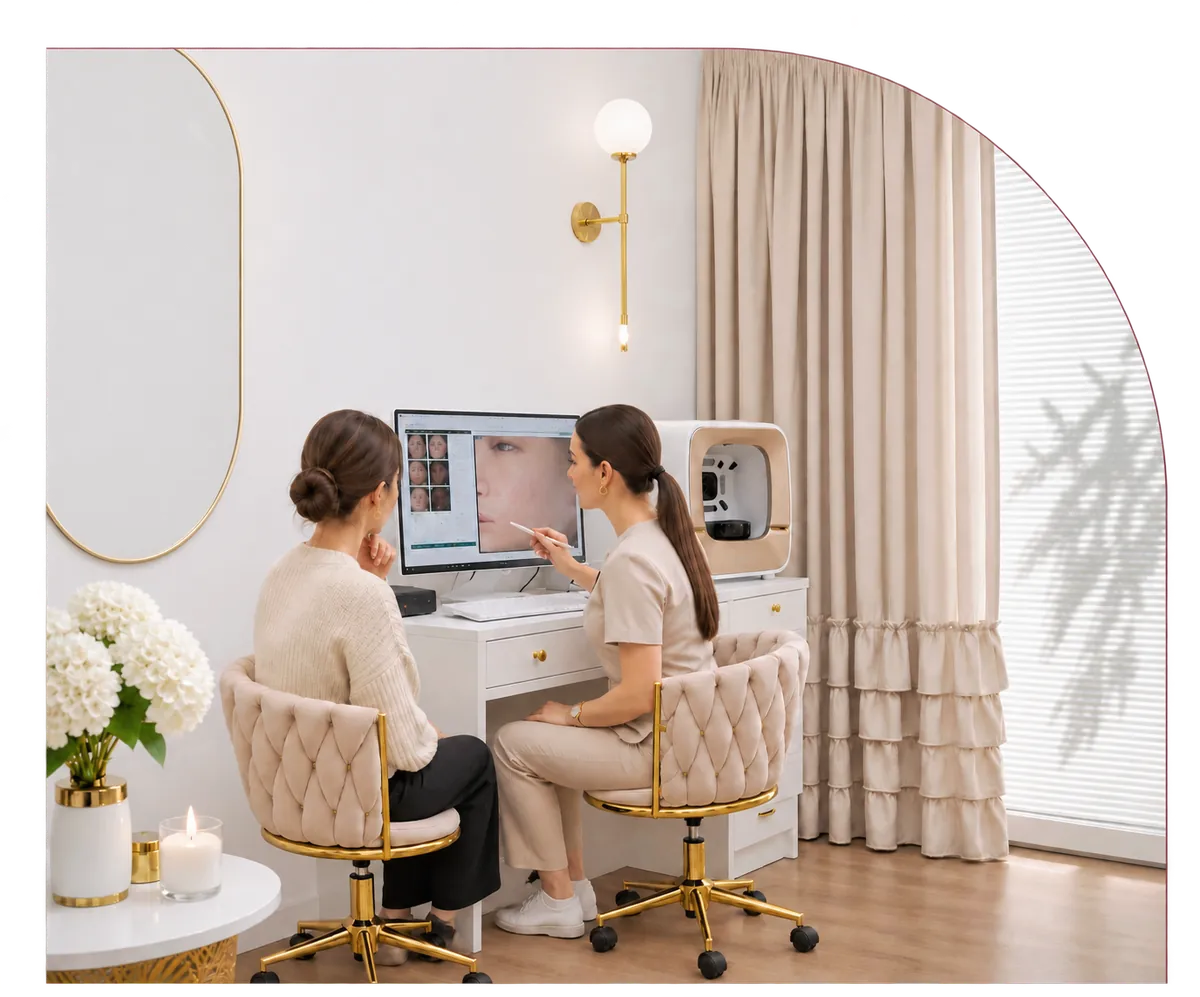
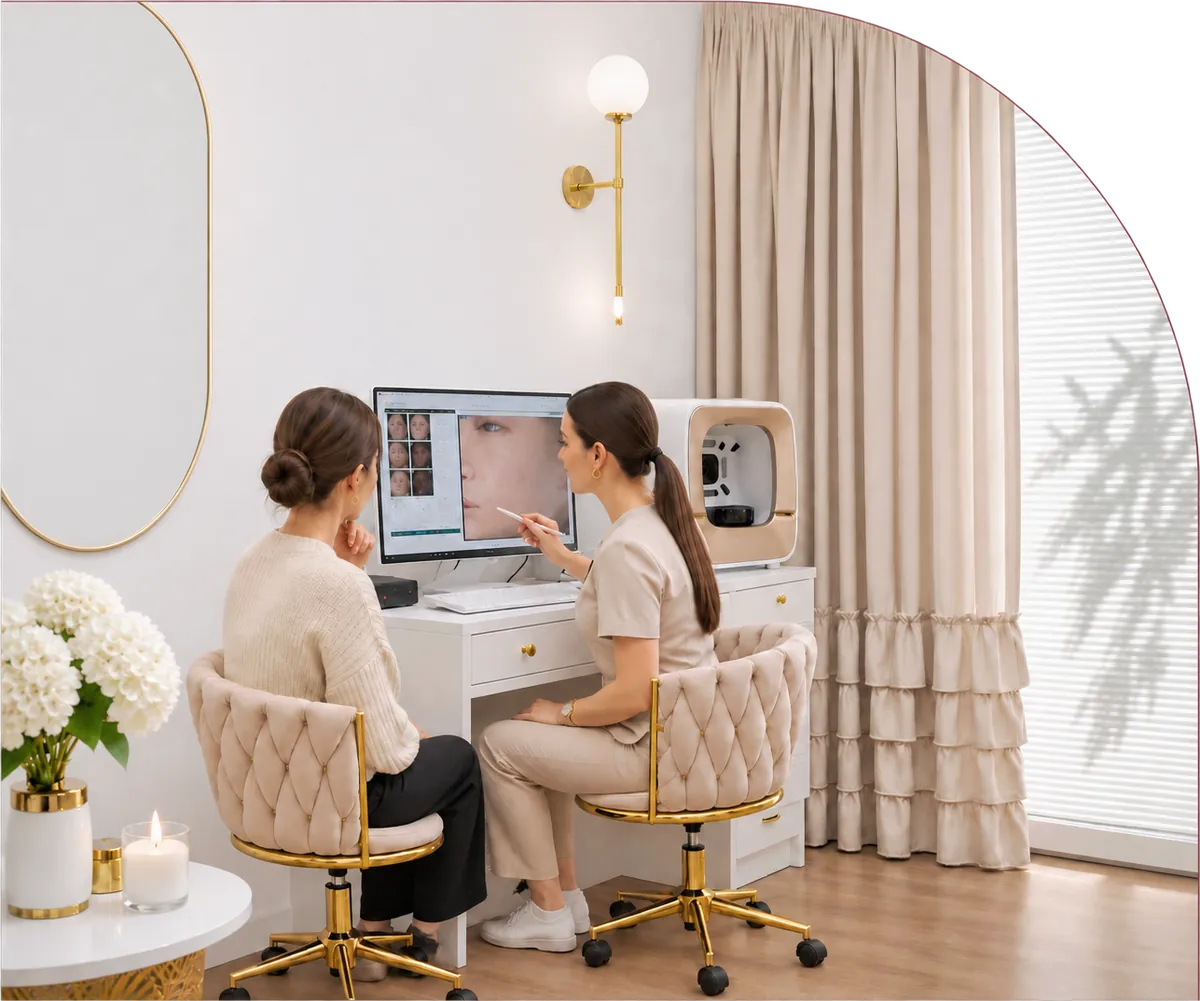
Hero ze zdjęciem w całości: dwie kolumny od 1100 px, poniżej zdjęcie pod tekstem (maks. 640 px, równo z tekstem); sizes dopasowane; grafika gabinetu przycięta do widocznej części

diff --git a/src/assets/css/komponenty.css b/src/assets/css/komponenty.css
@@ -251,9 +251,17 @@
 @media (min-width: 900px) {
   .hero { padding-top: var(--s-8); }
   .hero__siatka { grid-template-columns: 1.15fr 0.85fr; gap: var(--s-8); }
-  /* grafika pokazana w całości (strona główna, diagnostyka, podstrony zabiegów): szersza kolumna zdjęcia, żeby wypełniało
-     wysokość sekcji; przycinanie odpada, bo grafika ma łuk / tekst w obrazie (pomiar 1440 px: zdjęcie 483×401 → ok. 634×527) */
+}
+/* grafika pokazana w całości (strona główna, diagnostyka, podstrony zabiegów): przycinanie odpada, bo grafika ma łuk / tekst
+   w obrazie. Od 1100 px dwie kolumny z szeroką kolumną zdjęcia, żeby wypełniało wysokość sekcji (1440 px: zdjęcie 634×527);
+   poniżej 1100 px zdjęcie pod tekstem, maks. 640 px, wyrównane do tekstu (decyzja 2026-11-09) */
+.hero__siatka:has(.zdjecie--cale) .zdjecie--cale { justify-self: start; max-width: 640px; }
+@media (min-width: 900px) and (max-width: 1099.98px) {
+  .hero__siatka:has(.zdjecie--cale) { grid-template-columns: minmax(0, 1fr); gap: var(--s-7); }
+}
+@media (min-width: 1100px) {
   .hero__siatka:has(.zdjecie--cale) { grid-template-columns: minmax(0, 0.9fr) minmax(0, 1.1fr); gap: var(--s-7); }
+  .hero__siatka:has(.zdjecie--cale) .zdjecie--cale { justify-self: stretch; max-width: none; }
 }
 
 /* ============ UKŁAD: TEKST + PANEL ============ */

diff --git a/src/pages/diagnostyka-skory/index.html b/src/pages/diagnostyka-skory/index.html
@@ -28,7 +28,7 @@
           <p class="cytat">Najpierw poznaj swoją skórę. Potem świadomie o nią zadbaj.</p>
         </div>
         <!-- ZDJECIA.md #28 — grafika od Malwiny (AI; prawa do potwierdzenia, DO-MALWINY) -->
-        <img class="zdjecie zdjecie--cale" src="/assets/img/diagnostyka-beauty-plan-biurko-800.webp" srcset="/assets/img/diagnostyka-beauty-plan-biurko-480.webp 480w, /assets/img/diagnostyka-beauty-plan-biurko-800.webp 800w, /assets/img/diagnostyka-beauty-plan-biurko-1200.webp 1200w" sizes="(min-width: 900px) 40vw, 100vw" width="1200" height="800" alt="Okładka Beauty Planu „Twój przewodnik po świadomej pielęgnacji skóry” na biurku, obok komputer z obrazem skóry i filiżanka kawy" fetchpriority="high">
+        <img class="zdjecie zdjecie--cale" src="/assets/img/diagnostyka-beauty-plan-biurko-800.webp" srcset="/assets/img/diagnostyka-beauty-plan-biurko-480.webp 480w, /assets/img/diagnostyka-beauty-plan-biurko-800.webp 800w, /assets/img/diagnostyka-beauty-plan-biurko-1200.webp 1200w" sizes="(min-width: 1100px) 46vw, (min-width: 640px) 640px, 100vw" width="1200" height="800" alt="Okładka Beauty Planu „Twój przewodnik po świadomej pielęgnacji skóry” na biurku, obok komputer z obrazem skóry i filiżanka kawy" fetchpriority="high">
       </div>
     </section>
 

diff --git a/src/pages/zabiegi/depilacja-laserowa/index.html b/src/pages/zabiegi/depilacja-laserowa/index.html
@@ -23,7 +23,7 @@
           </div>
         </div>
         <!-- ZDJECIA.md — zdjęcie od Malwiny (grafika AI; prawa do potwierdzenia, DO-MALWINY) -->
-        <img class="zdjecie zdjecie--cale" src="/assets/img/zabieg-depilacja-laserowa-800.webp" srcset="/assets/img/zabieg-depilacja-laserowa-480.webp 480w, /assets/img/zabieg-depilacja-laserowa-800.webp 800w, /assets/img/zabieg-depilacja-laserowa-1200.webp 1200w" sizes="(min-width: 900px) 40vw, 100vw" width="1200" height="801" alt="Epilacja laserowa pach: klientka w okularach ochronnych, kosmetolog w bordowych rękawiczkach prowadzi głowicę lasera" fetchpriority="high">
+        <img class="zdjecie zdjecie--cale" src="/assets/img/zabieg-depilacja-laserowa-800.webp" srcset="/assets/img/zabieg-depilacja-laserowa-480.webp 480w, /assets/img/zabieg-depilacja-laserowa-800.webp 800w, /assets/img/zabieg-depilacja-laserowa-1200.webp 1200w" sizes="(min-width: 1100px) 46vw, (min-width: 640px) 640px, 100vw" width="1200" height="801" alt="Epilacja laserowa pach: klientka w okularach ochronnych, kosmetolog w bordowych rękawiczkach prowadzi głowicę lasera" fetchpriority="high">
       </div>
     </section>
 

diff --git a/src/pages/index.html b/src/pages/index.html
@@ -34,7 +34,7 @@
           </ul>
         </div>
         <!-- ZDJECIA.md #1 — grafika od Malwiny (AI, PNG z przezroczystym tłem; prawa do potwierdzenia, DO-MALWINY) -->
-        <img class="zdjecie zdjecie--cale" src="/assets/img/konsultacja-lumiscan-800.webp" srcset="/assets/img/konsultacja-lumiscan-480.webp 480w, /assets/img/konsultacja-lumiscan-800.webp 800w, /assets/img/konsultacja-lumiscan-1200.webp 1200w" sizes="(min-width: 900px) 40vw, 100vw" width="1200" height="997" alt="Konsultacja w gabinecie: kosmetolog i klientka przy komputerze, na ekranie obraz skóry twarzy, obok urządzenie do diagnostyki" fetchpriority="high">
+        <img class="zdjecie zdjecie--cale" src="/assets/img/konsultacja-lumiscan-800.webp" srcset="/assets/img/konsultacja-lumiscan-480.webp 480w, /assets/img/konsultacja-lumiscan-800.webp 800w, /assets/img/konsultacja-lumiscan-1200.webp 1200w" sizes="(min-width: 1100px) 46vw, (min-width: 640px) 640px, 100vw" width="1200" height="1001" alt="Konsultacja w gabinecie: kosmetolog i klientka przy komputerze, na ekranie obraz skóry twarzy, obok urządzenie do diagnostyki" fetchpriority="high">
       </div>
     </section>
 
